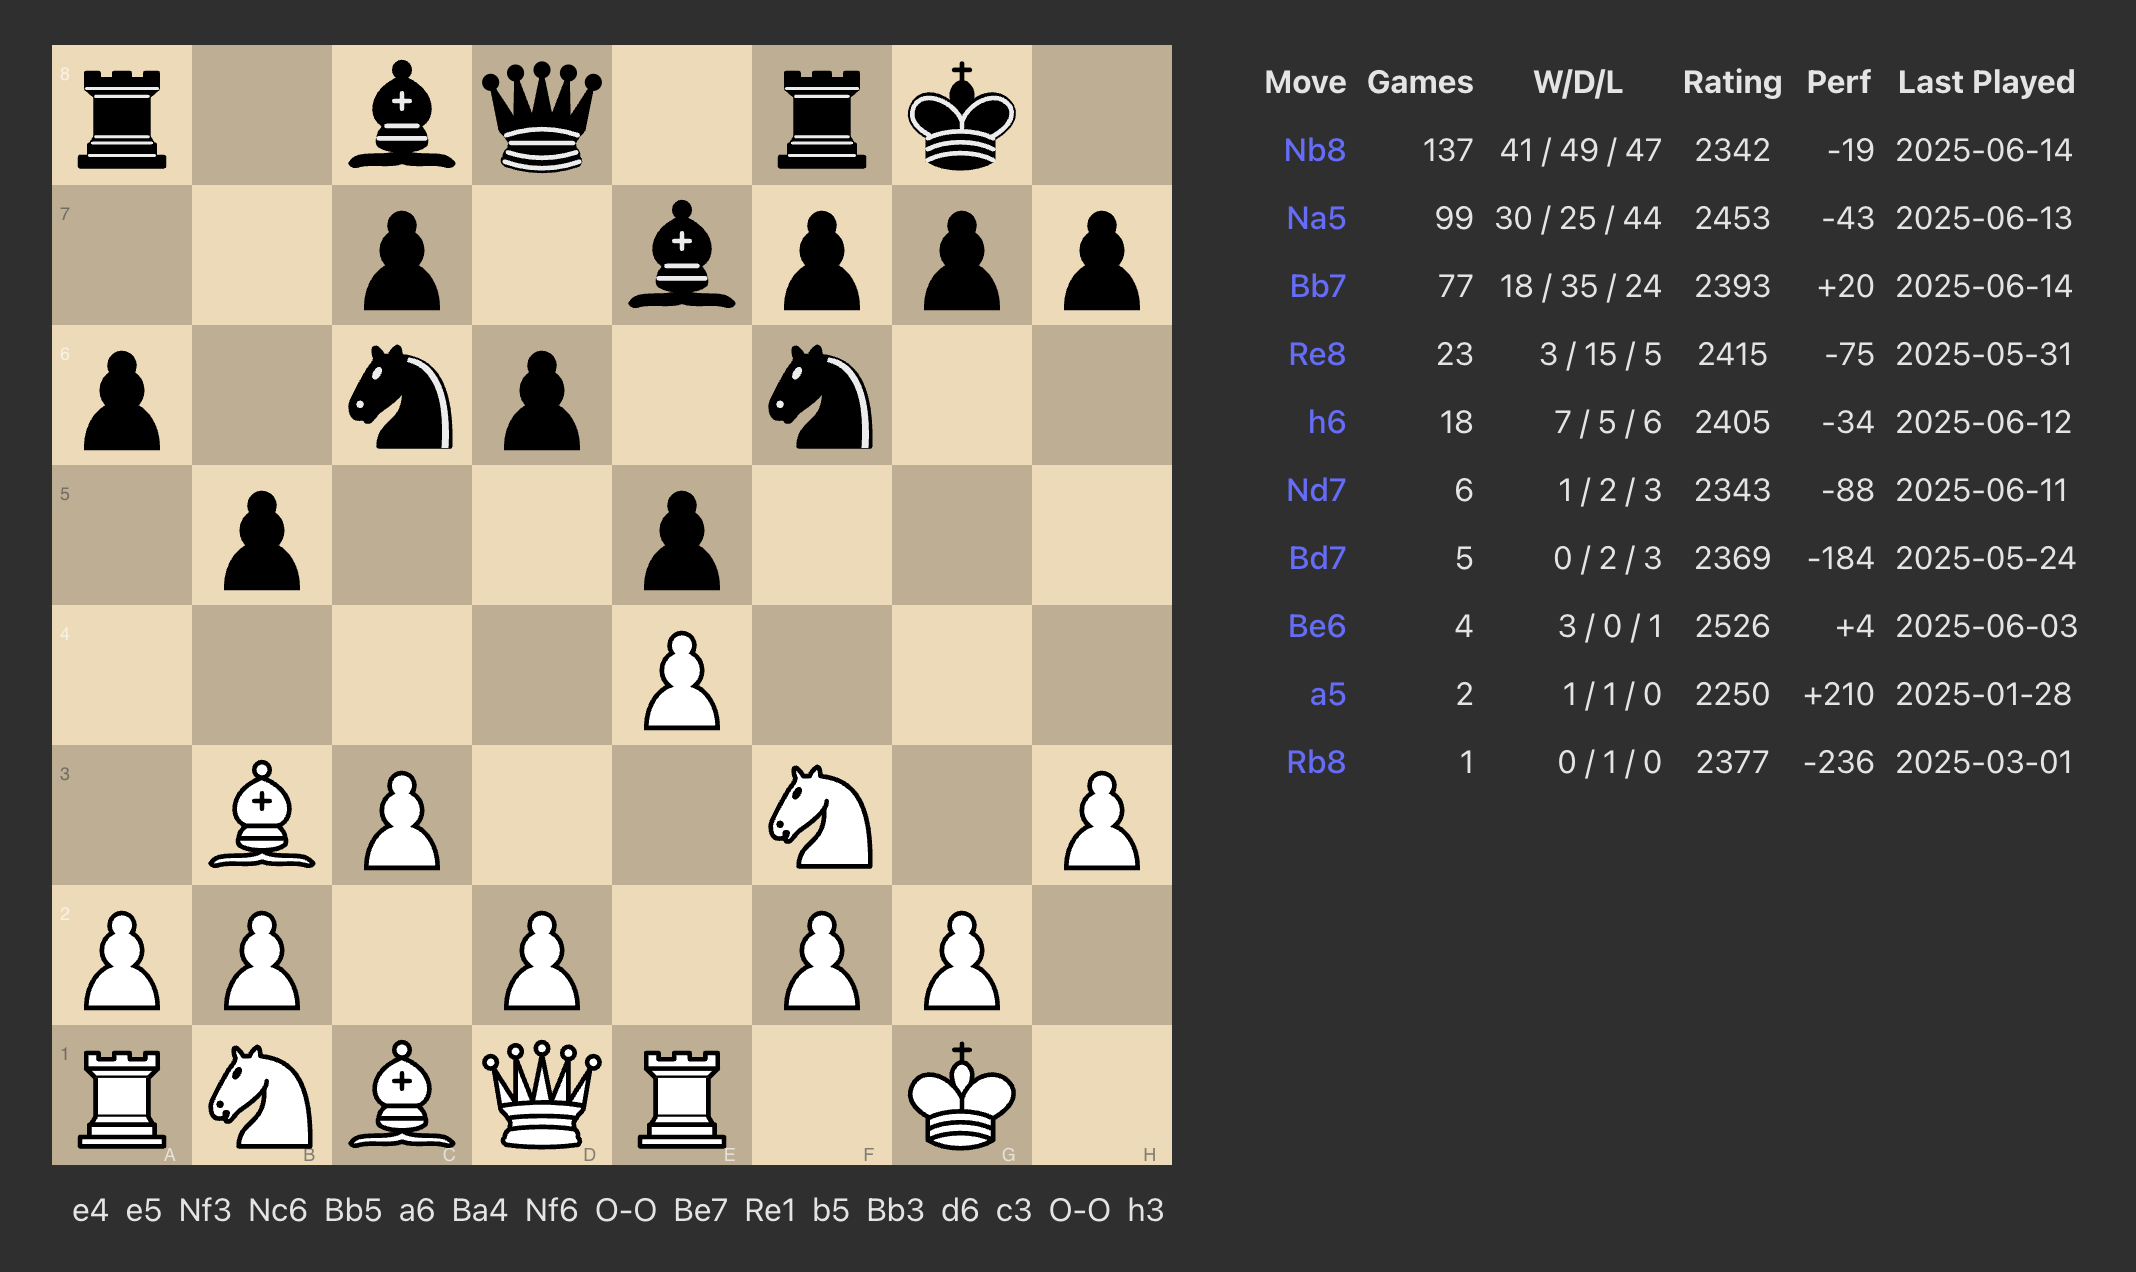
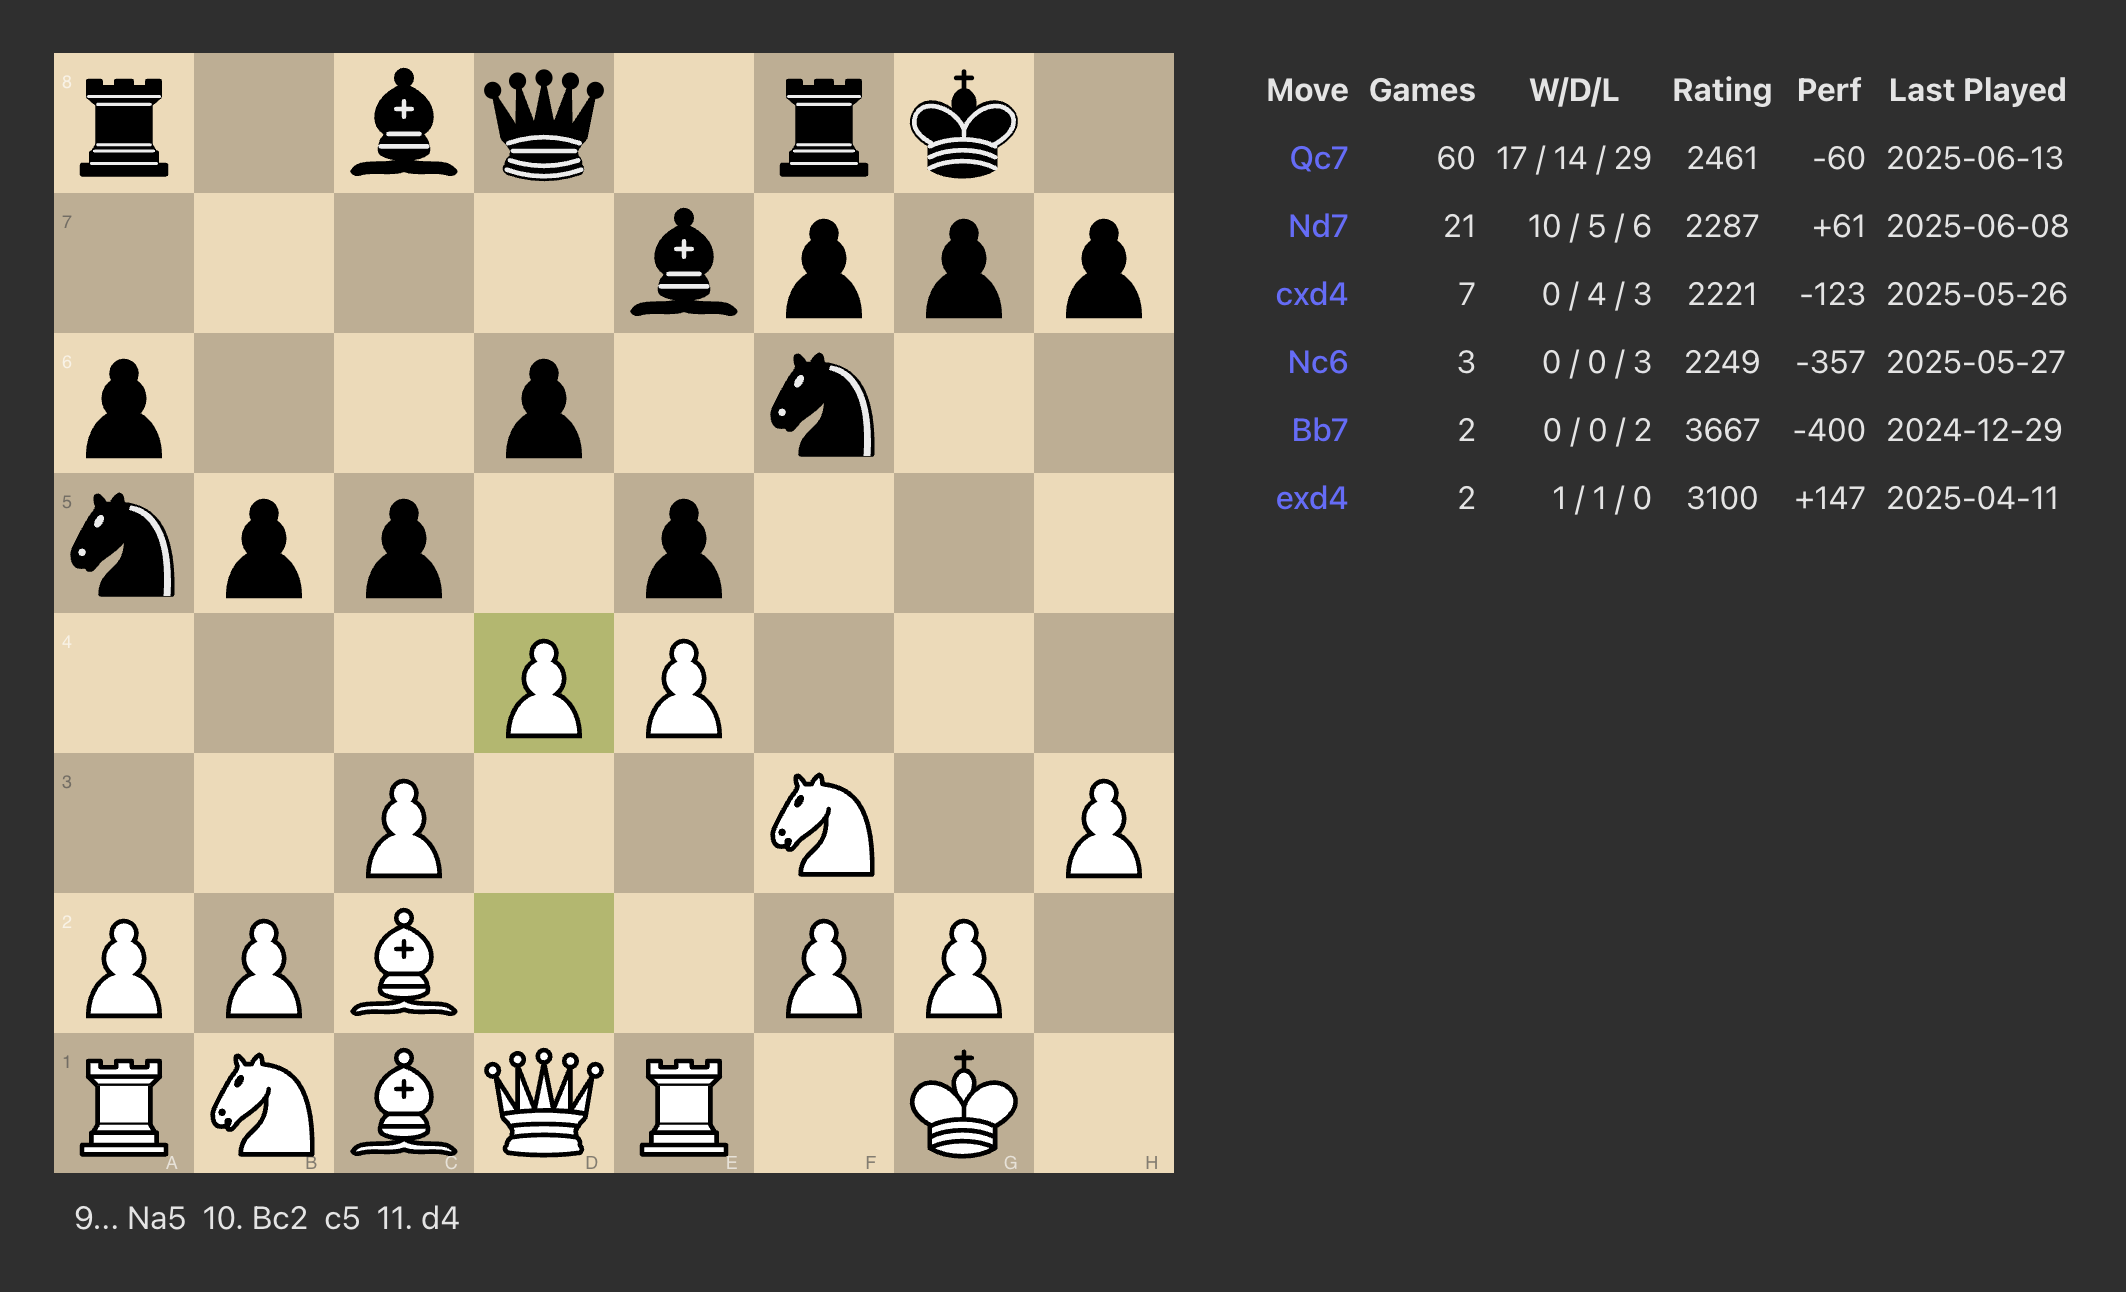
set starting move number.

diff --git a/src/App.tsx b/src/App.tsx
@@ -11,7 +11,7 @@ const FEN_CLOSED_RUY_LOPEZ = 'r1bq1rk1/2p1bppp/p1np1n2/1p2p3/4P3/1BP2N1P/PP1P1PP
 export const App = () => {
   return (
     <div className="App">
-      <ExplorerPane tree="twic-2025" position={FEN_CLOSED_RUY_LOPEZ} />
+      <ExplorerPane tree="twic-2025" position={FEN_CLOSED_RUY_LOPEZ} moveNum={9} />
     </div>
   );
 };
